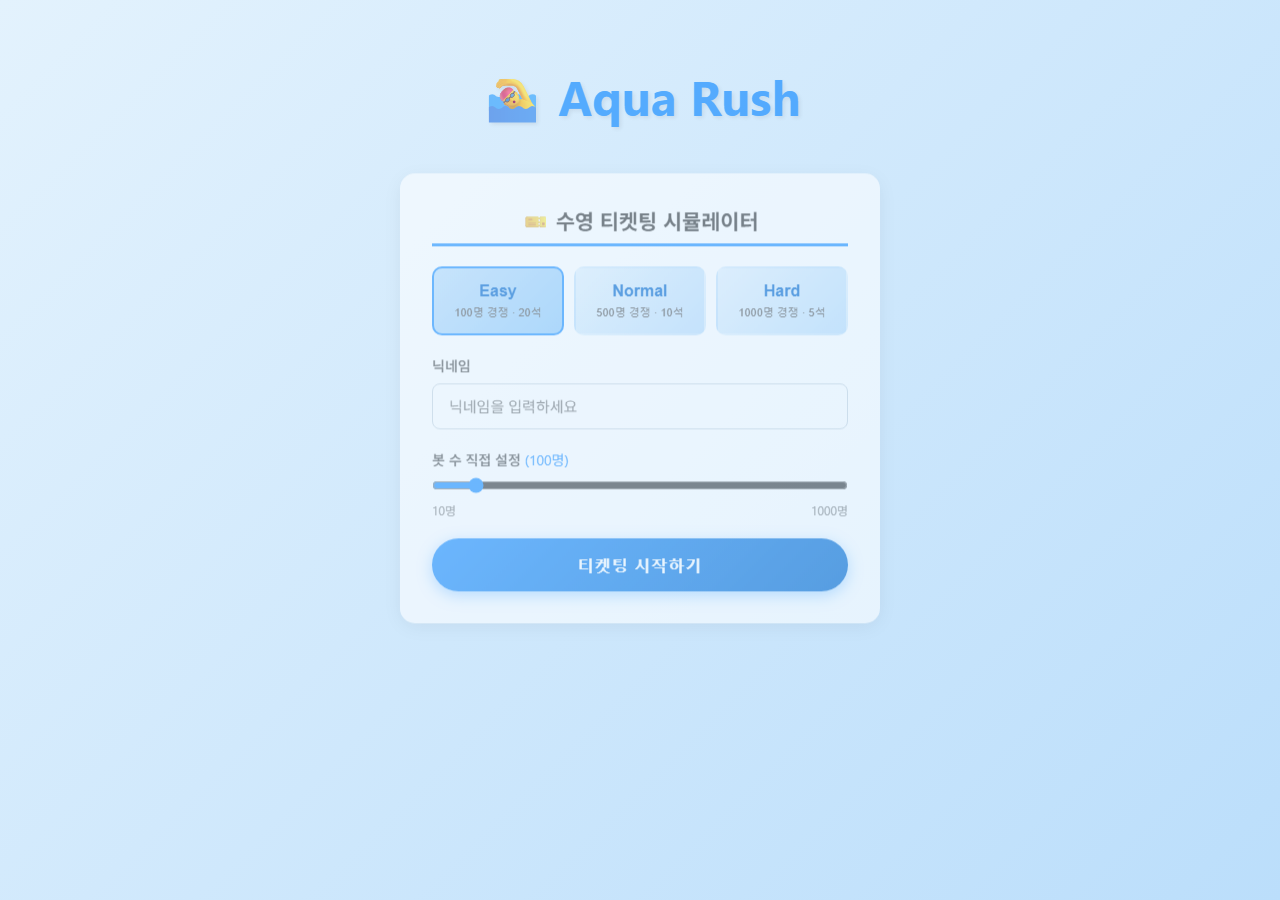
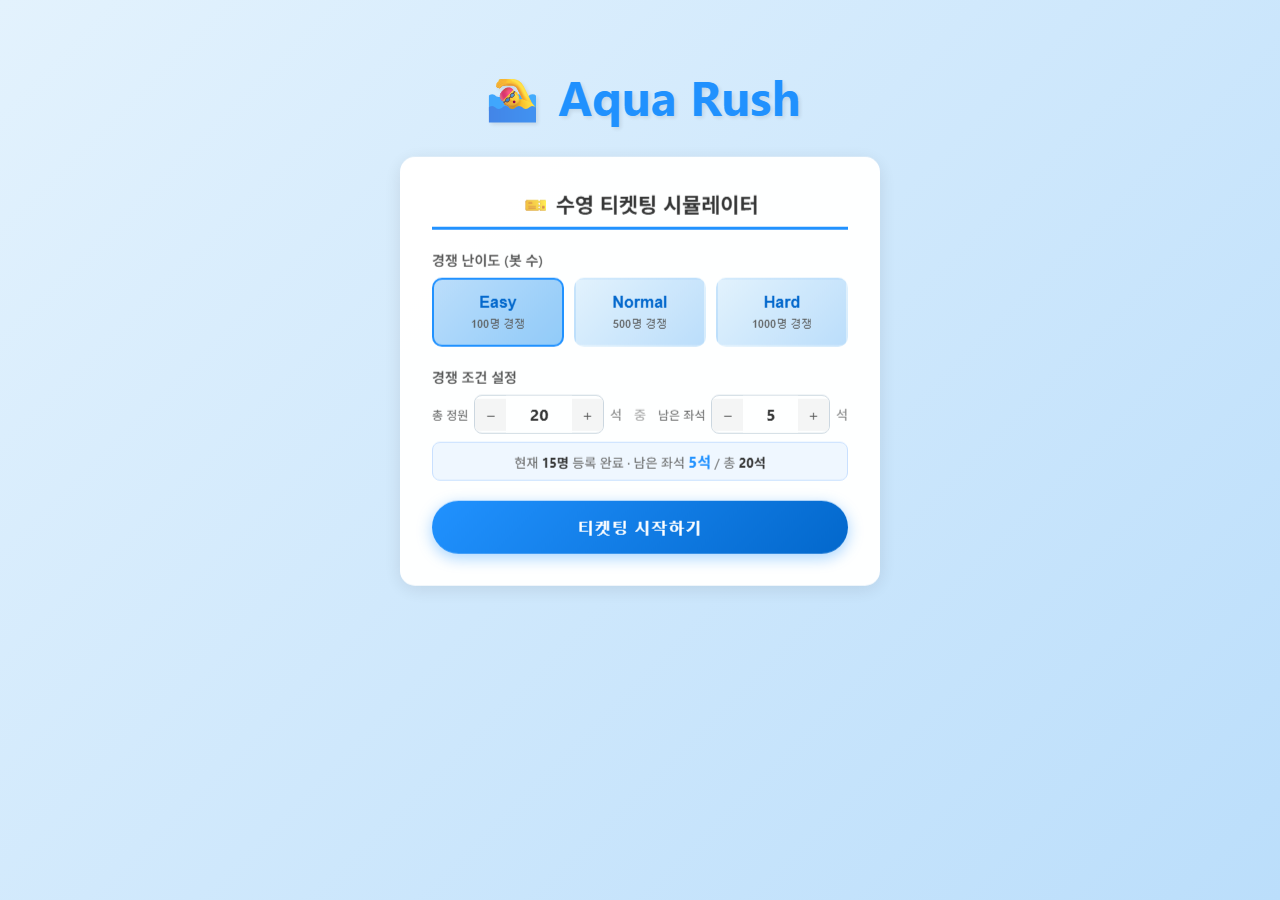
docs: 스크린샷 업데이트 및 README 반영 (#22)
StartPage(정원 설정 UI)·RegistrationPage(단계별 필터·강좌 목록) 스크린샷 교체.
README 개요·스크린샷 테이블·API 목록 업데이트.

Changed region(s): [[0.3125, 0.0933, 0.6875, 0.7156]]

diff --git a/README.md b/README.md
@@ -18,26 +18,26 @@
 수영장 수강신청은 매달 정해진 시간에 수백 명이 동시에 몰리게 됩니다.  
 **Aqua Rush**는 이러한 경쟁 시스템 상황을 그대로 재현합니다.
 
-- 사용자는 닉네임과 경쟁 난이도(봇 수)를 설정하고 시뮬레이션에 참가
+- 사용자는 경쟁 난이도(봇 수)와 강좌 총 정원·남은 좌석을 설정하여 시뮬레이션에 참가
 - 수강신청 시간이 되면 설정한 수의 봇이 자동으로 예약 경쟁을 시작
-- 사용자는 F5로 새로고침하여 접속 대기열을 통과하고 신청 버튼을 눌러 경쟁에 참여
+- 사용자는 F5로 새로고침하여 접속 대기열을 통과하고, 체육센터·종목·레벨·교육 대상 필터로 미션 강좌를 직접 찾아 신청
 - 결과(내 순위 / 성공 여부 / 전체 통계)를 실시간으로 확인
 
 ---
 
 ## 스크린샷
 
-| 시작 페이지 | 수강신청 (카운트다운) |
+| 시작 페이지 (난이도·정원 설정) | 수강신청 (카운트다운 + 단계별 필터) |
 |---|---|
 | ![시작](frontend/docs/screenshots/01_start_page.png) | ![카운트다운](frontend/docs/screenshots/03_registration_countdown.png) |
 
-| 접속 유량제어 (새로고침 시) | 예약 대기열 (실시간) |
+| 강좌 목록 (90개 강좌) | 접속 유량제어 (새로고침 시) |
 |---|---|
-| ![유량제어](frontend/docs/screenshots/04_access_queue_overlay.png) | ![대기열](frontend/docs/screenshots/06_queue_modal_waiting.png) |
+| ![목록](frontend/docs/screenshots/05_registration_active.png) | ![유량제어](frontend/docs/screenshots/04_access_queue_overlay.png) |
 
-| 결과 — 성공 | 결과 — 실패 |
+| 예약 대기열 (실시간) | 결과 — 성공 |
 |---|---|
-| ![성공](frontend/docs/screenshots/08_result_success.png) | ![실패](frontend/docs/screenshots/09_result_fail.png) |
+| ![대기열](frontend/docs/screenshots/06_queue_modal_waiting.png) | ![성공](frontend/docs/screenshots/08_result_success.png) |
 
 ---
 
@@ -186,10 +186,13 @@ GET    /api/v1/reservations/my           내 예약 목록
 DELETE /api/v1/reservations/{id}         예약 취소
 ```
 
-### 강좌
+### 강좌 / 센터 / 카테고리
 ```
 GET    /api/v1/courses/{id}              강좌 상세
-GET    /api/v1/courses/search            강좌 검색 (센터/카테고리/요일 등)
+GET    /api/v1/courses/search            강좌 검색 (센터/카테고리/레벨/교육대상)
+GET    /api/v1/courses/random            활성 강좌 1개 랜덤 조회
+GET    /api/v1/centers                   센터 목록
+GET    /api/v1/categories                카테고리 목록
 ```
 
 ---